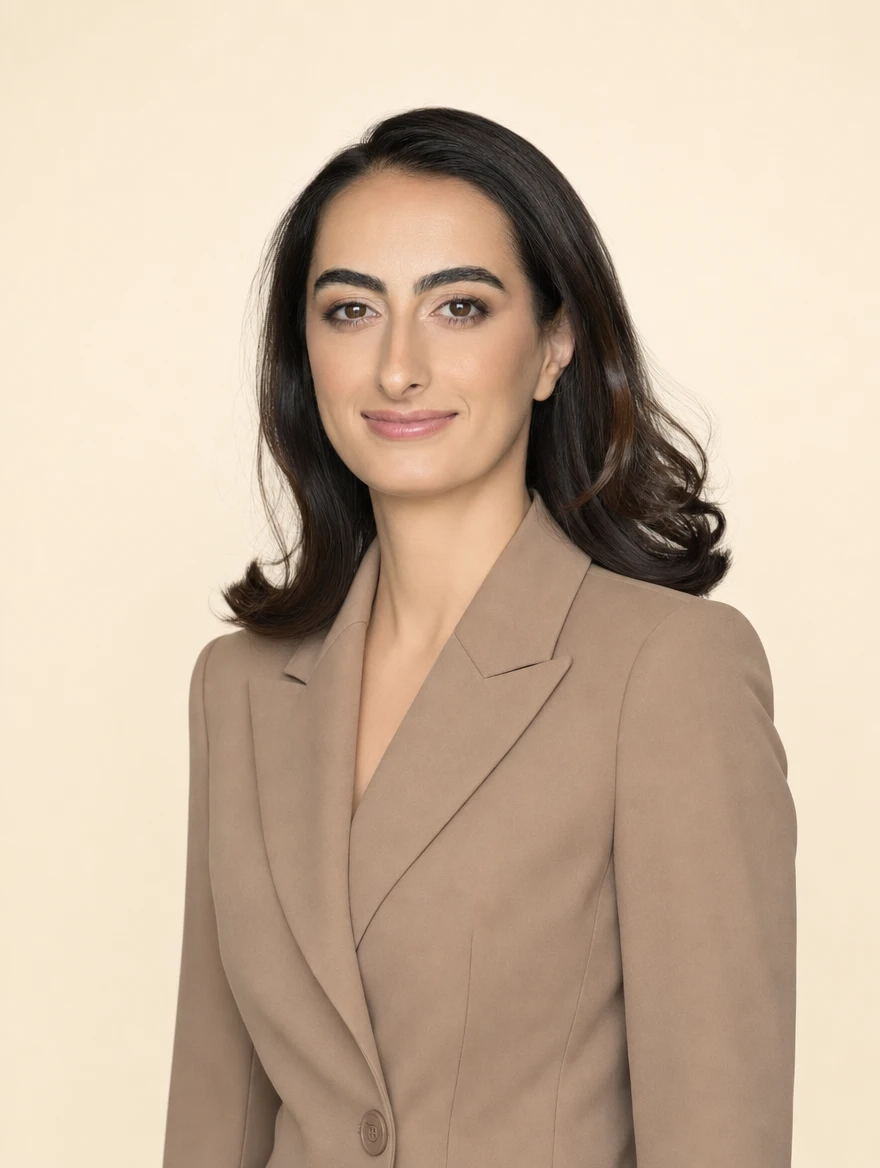
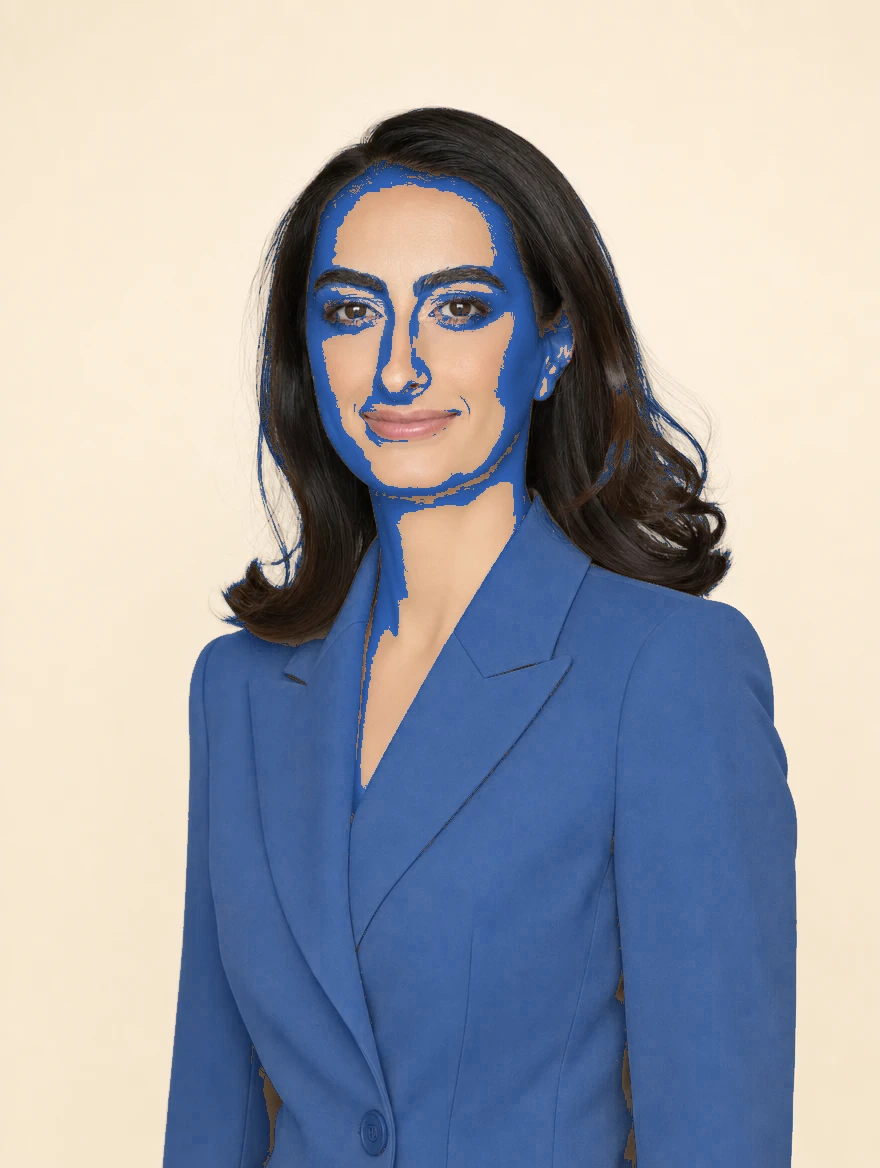
preview: recolor ana-tan.webp jacket to blue (H=218) — face and bg unchanged

diff --git a/preview/index.html b/preview/index.html
@@ -409,7 +409,7 @@ hr.thin {
   object-fit: cover;
   object-position: center top;
   display: block;
-  filter: grayscale(20%) saturate(0.7) brightness(0.9) contrast(1.04);
+  filter: brightness(0.92) contrast(1.04) saturate(0.95);
 }
 .hero__eyebrow {
   display: flex;
